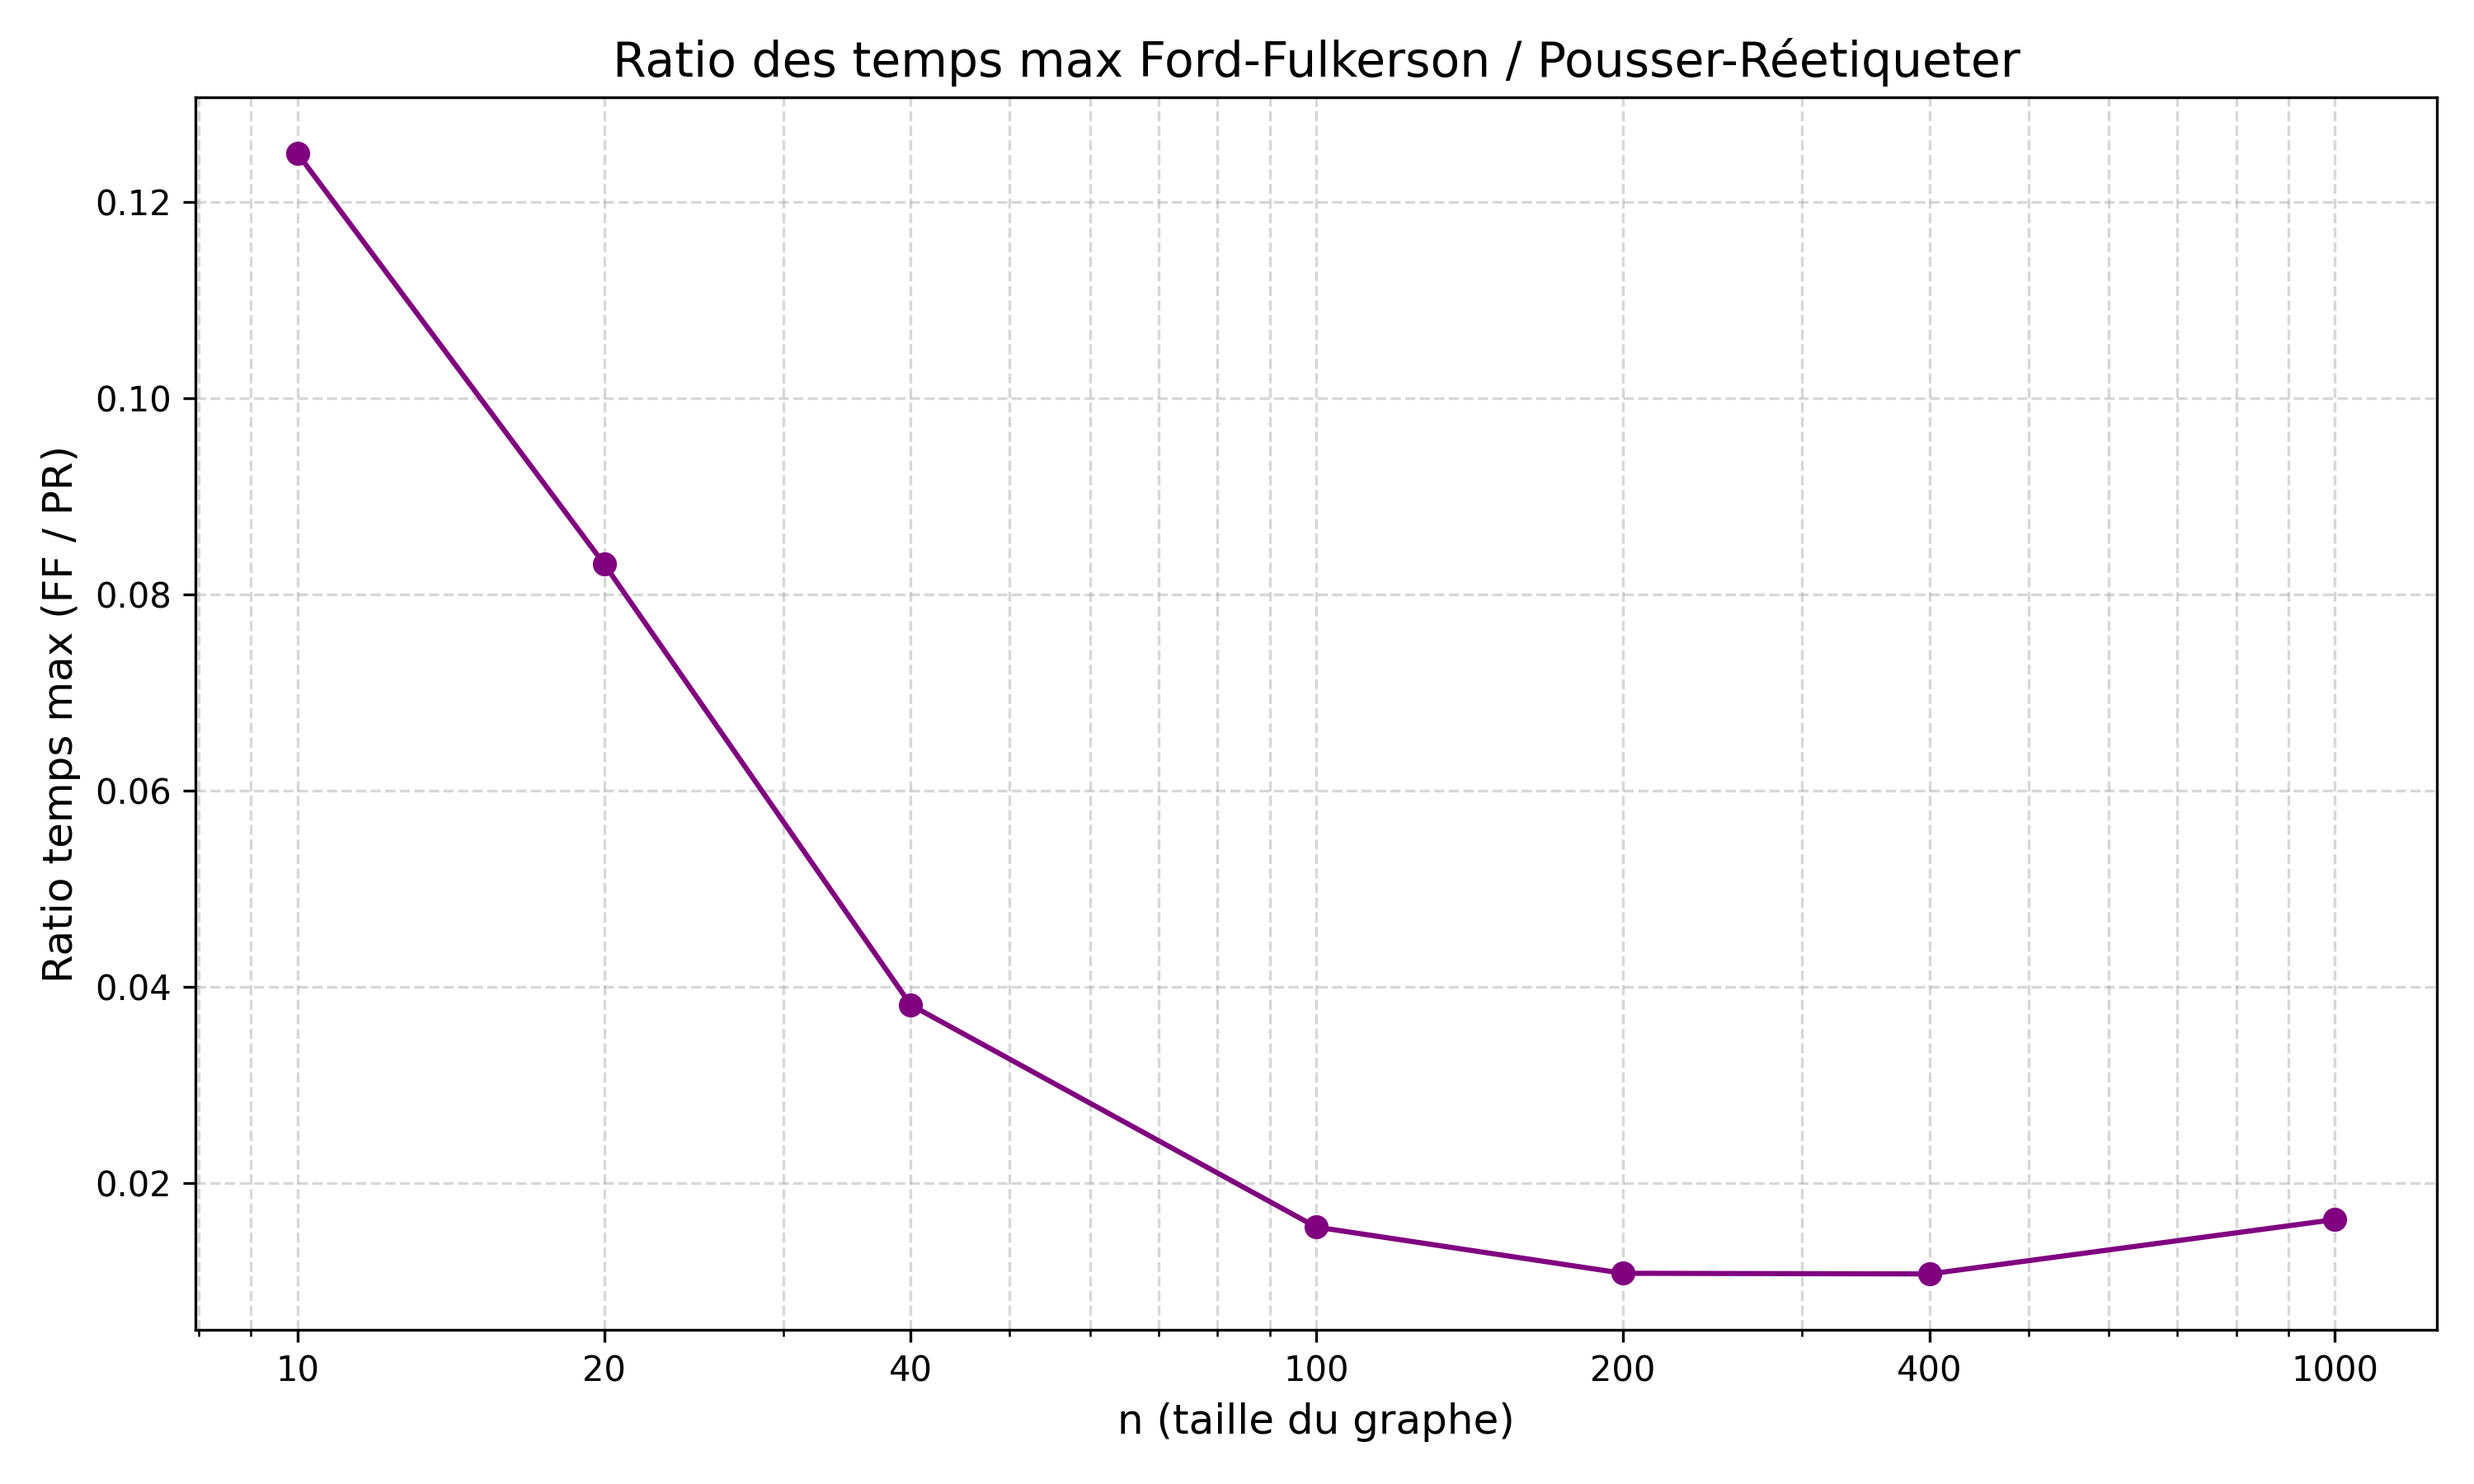
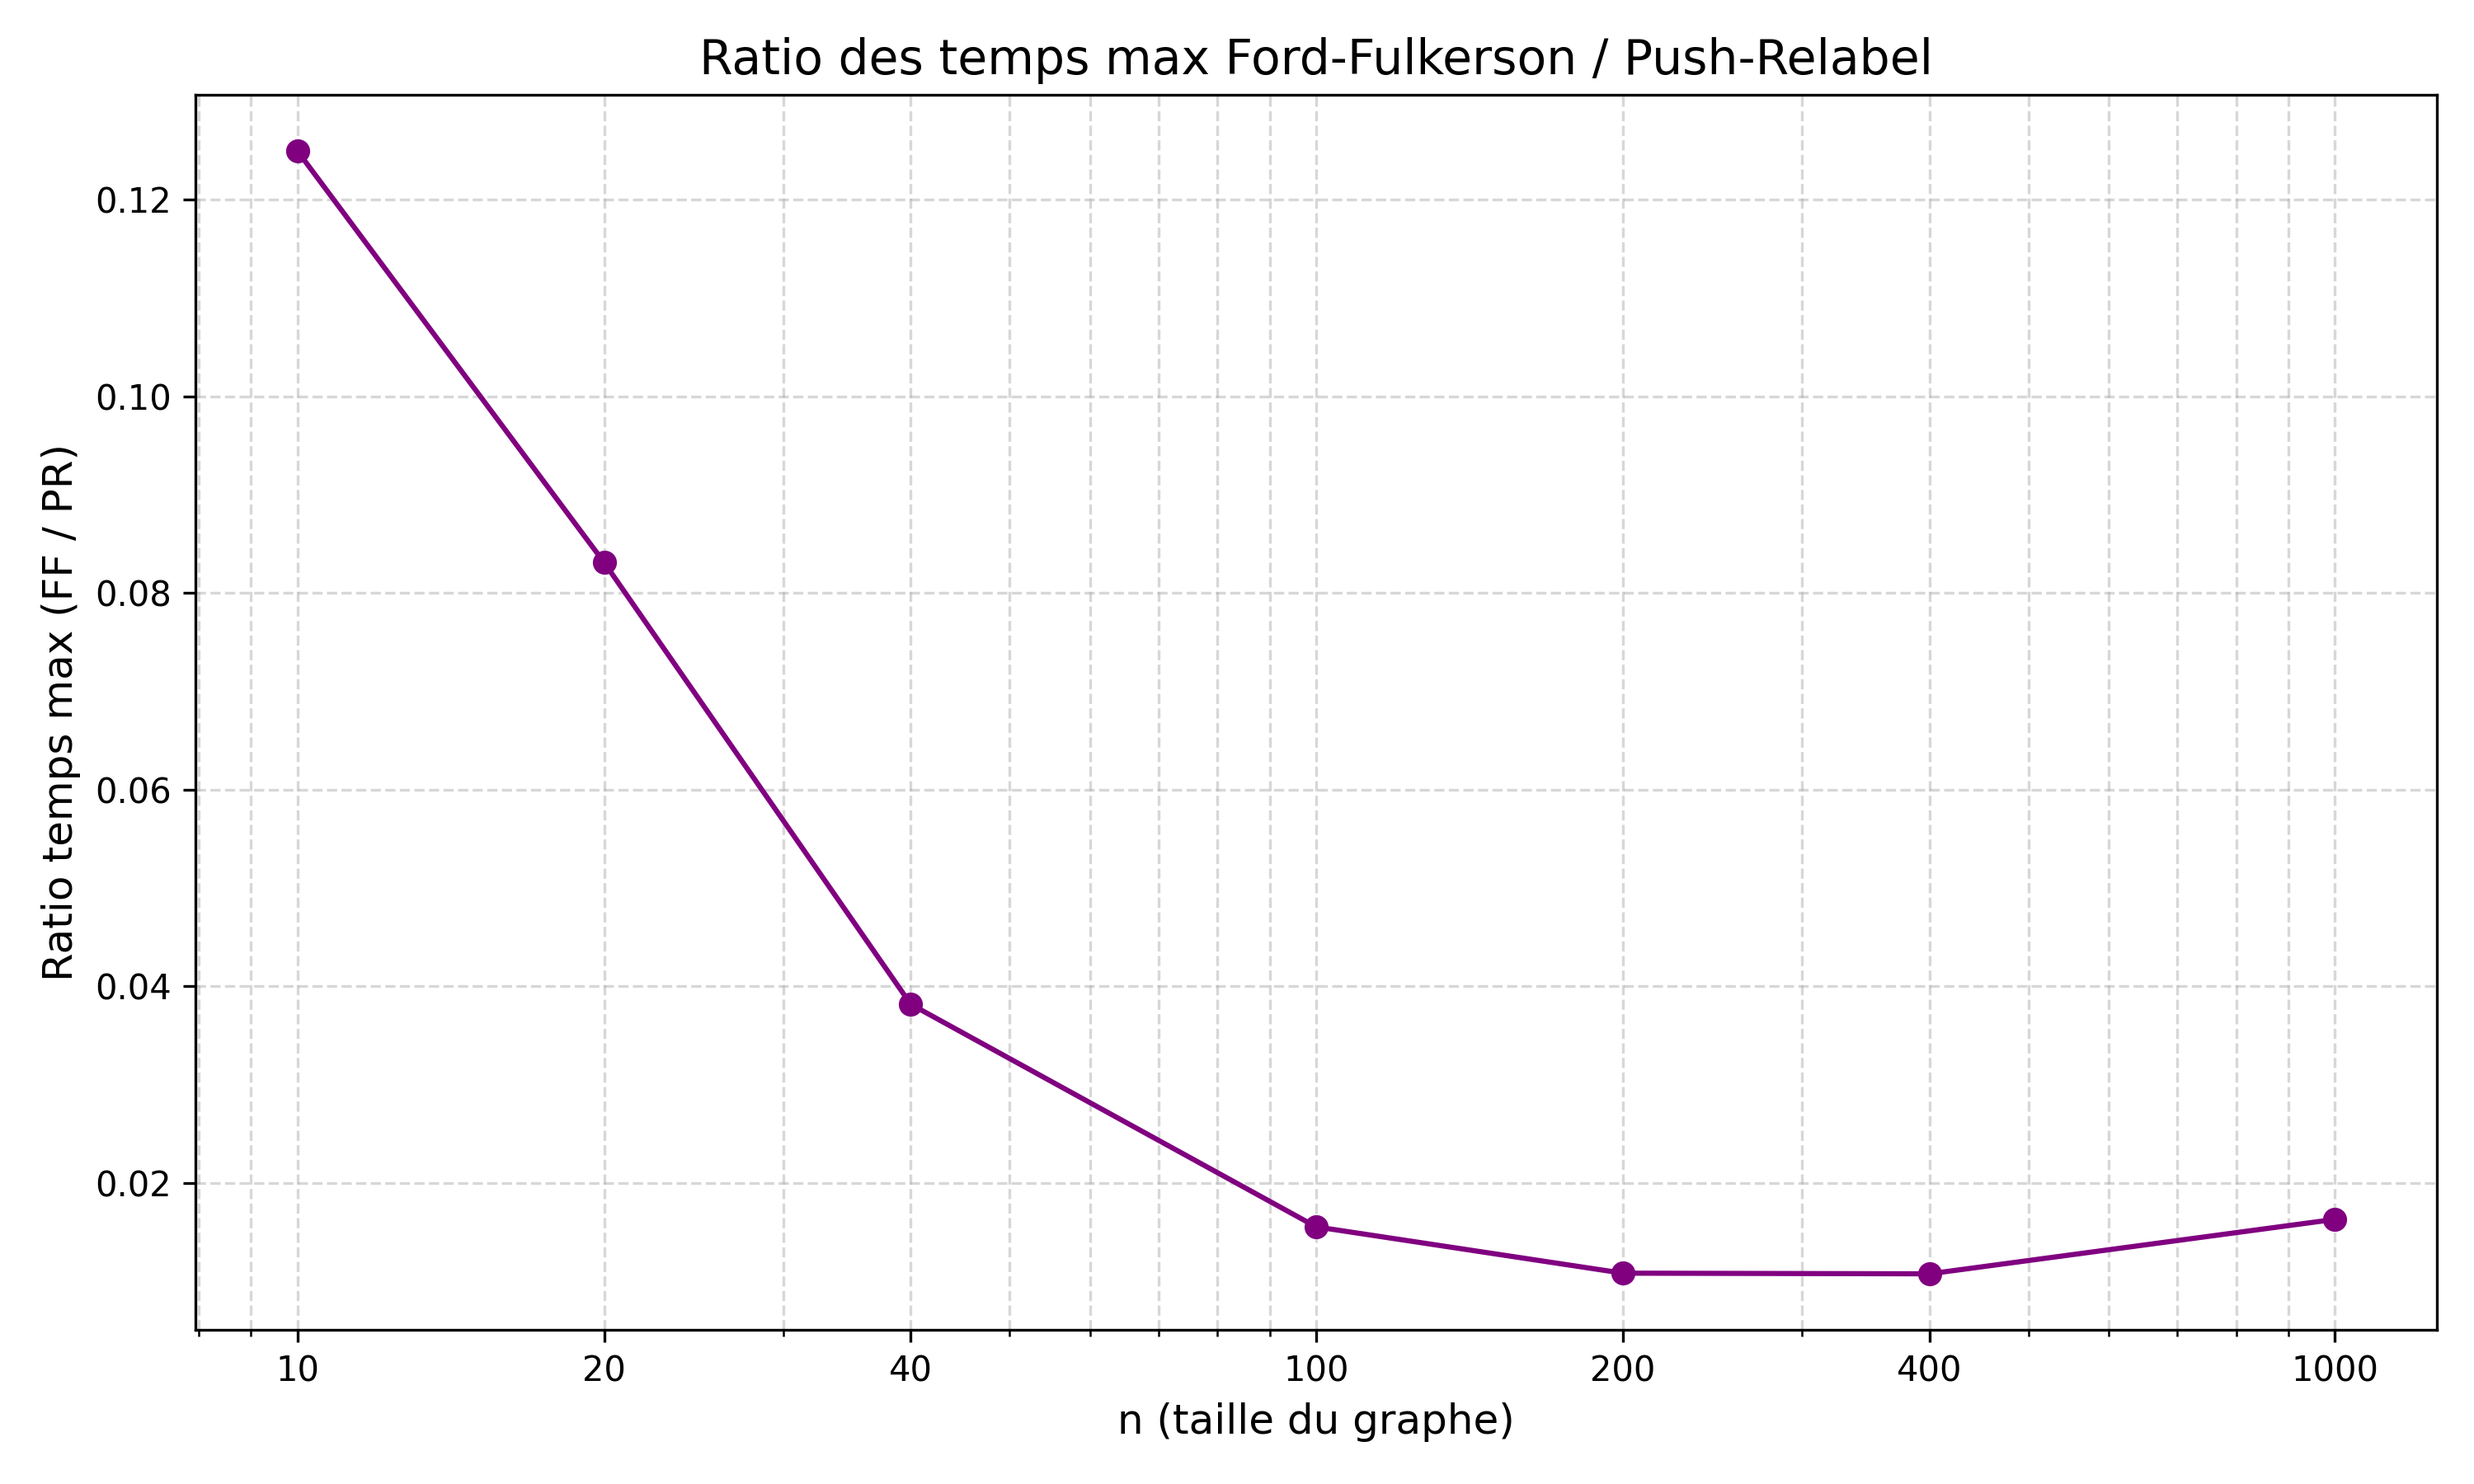
updates graphes

diff --git a/tracer_graphiques.py b/tracer_graphiques.py
@@ -8,7 +8,7 @@ valeurs_n = [10, 20, 40, 100, 200, 400, 1000]
 
 donnees = {
     "FF": {"n": [], "temps": [], "couleur": "blue", "titre": "Ford-Fulkerson"},
-    "PR": {"n": [], "temps": [], "couleur": "orange", "titre": "Pousser-Reétiqueter"},
+    "PR": {"n": [], "temps": [], "couleur": "orange", "titre": "Push-Relabel"},
     "MIN": {"n": [], "temps": [], "couleur": "green", "titre": "Flot à coût min"}
 }
 
@@ -55,7 +55,6 @@ for code, d in donnees.items():
     plt.ylabel("Temps d'exécution (secondes)", fontsize=12)
     plt.grid(True, which='both', linestyle='--', alpha=0.5)
     plt.xscale("log")
-    plt.yscale("log")
     plt.gca().xaxis.set_major_formatter(ScalarFormatter())
     plt.xticks(valeurs_n, labels=[str(n) for n in valeurs_n])
     plt.scatter(d["n"], d["temps"], color=d["couleur"], s=14, alpha=0.6, edgecolors='k', linewidths=0.3)
@@ -82,7 +81,7 @@ for code in ["FF", "PR", "MIN"]:
 
 # Graphe des ratios FF/PR
 plt.figure(figsize=(10, 6))
-plt.title("Ratio des temps max Ford-Fulkerson / Pousser-Réetiqueter", fontsize=14)
+plt.title("Ratio des temps max Ford-Fulkerson / Push-Relabel", fontsize=14)
 plt.plot(valeurs_n, ratios_ff_pr, marker='o', linestyle='-', color='purple')
 plt.xscale("log")
 plt.gca().xaxis.set_major_formatter(ScalarFormatter())
